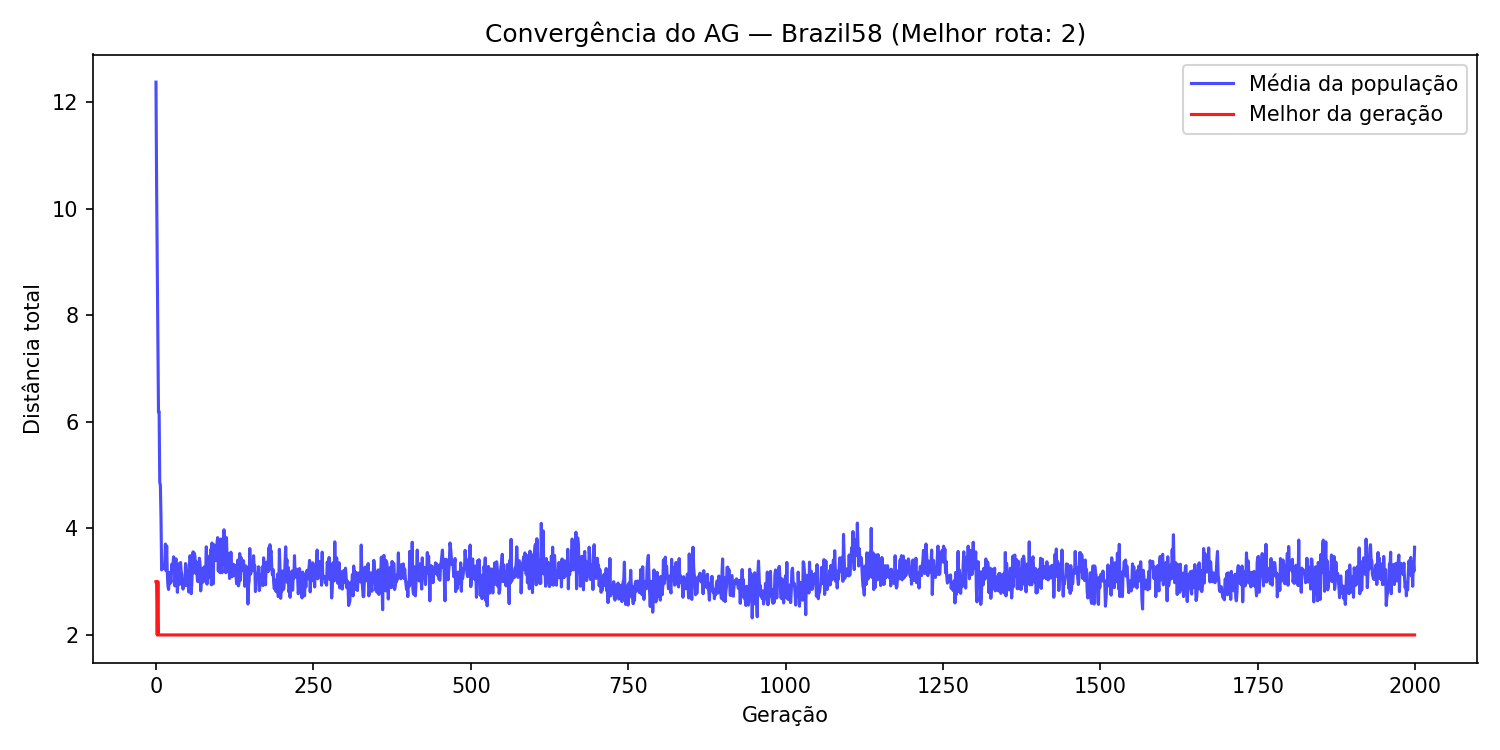
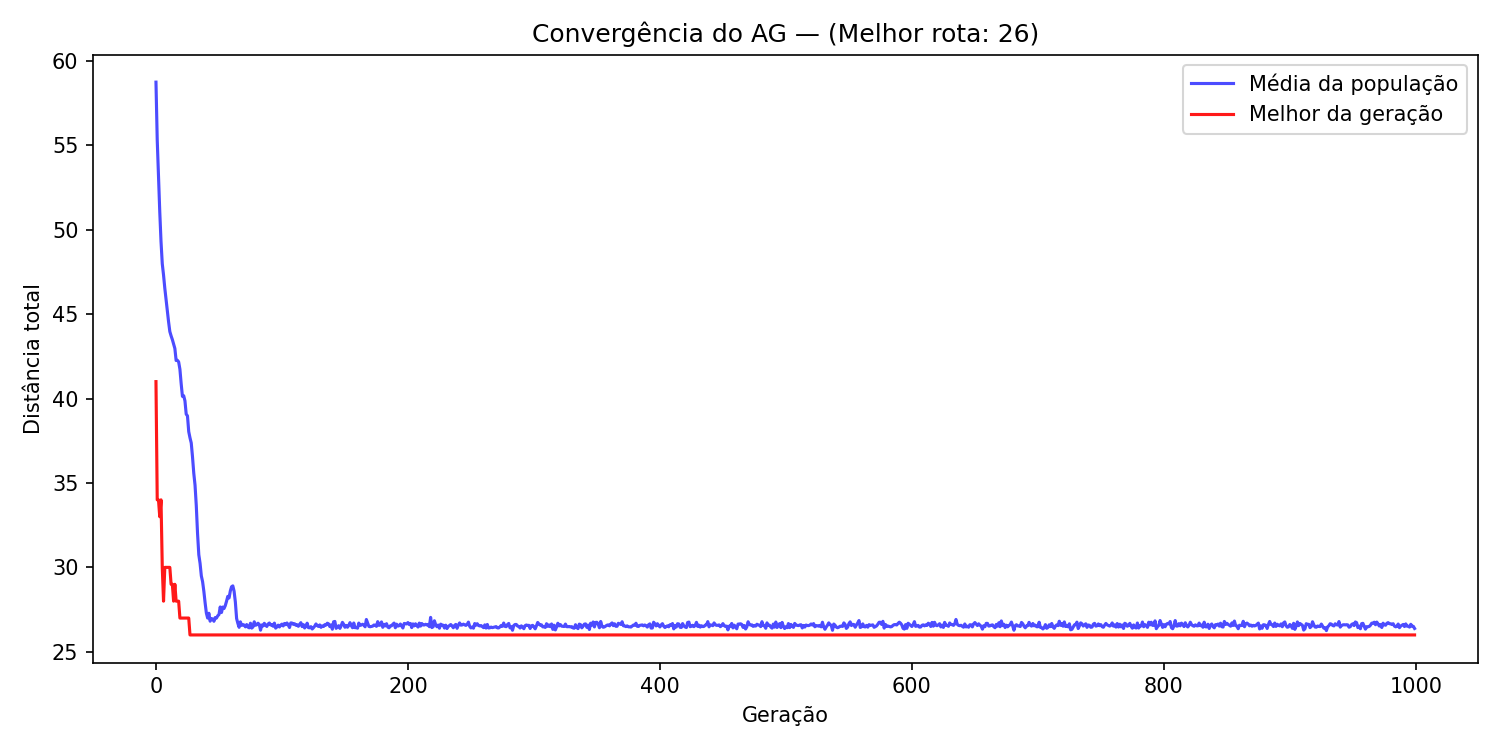
Adicionando a melhor rota

diff --git a/processo.py b/processo.py
@@ -1,5 +1,5 @@
 # -*- coding: utf-8 -*-
-# Adaptado para Brazil58 com matriz UPPER_ROW
+# Adaptado para Brazil13 com a matriz UPPER_ROW fornecida e impressão detalhada de rotas
 
 import random
 import time
@@ -9,35 +9,31 @@ import matplotlib.pyplot as plt
 from deap import base, creator, tools
 
 # =============================================================================
-# 1. CARREGAMENTO DA MATRIZ DE DISTÂNCIAS (UPPER_ROW - Brazil58)
+# 1. CARREGAMENTO DA MATRIZ DE DISTÂNCIAS (UPPER_ROW - Brazil13)
 # =============================================================================
 distancias = {}
 todos_valores = []
 
-# Lendo o arquivo e guardando absolutamente todos os números em uma lista única
-with open("brazil58.tsp", "r") as objArq:
+with open("brazil58.tsp", "r") as objArq:  # Mantendo o nome do arquivo que você usa
     for line in objArq:
         line = line.strip()
-        # Pula cabeçalhos se houver, ou linhas vazias
         if not line or "NAME" in line or "TYPE" in line or "COMMENT" in line or "DIMENSION" in line or "EDGE_WEIGHT" in line:
             continue
         if line == "EOF":
             break
         todos_valores.extend(line.split())
 
-# Definição do número de cidades para o Brazil58
-n = 58
+n = 13
 idx = 0
 
-# Montando a matriz espelhada a partir do formato UPPER_ROW
 for i in range(1, n + 1):
-    distancias[(i, i)] = 0  # Distância de uma cidade para ela mesma é zero
+    distancias[(i, i)] = 0
     for j in range(i + 1, n + 1):
         if idx < len(todos_valores):
             peso = int(todos_valores[idx])
             idx += 1
         else:
-            peso = 0  # Prevenção caso o arquivo venha incompleto ou menor
+            peso = 0
         distancias[(i, j)] = peso
         distancias[(j, i)] = peso
 
@@ -47,18 +43,12 @@ print(f"Sucesso: Matriz de distâncias para {n} cidades carregada corretamente!\
 # 2. FUNÇÕES AUXILIARES
 # =============================================================================
 def calcular_distancia_rota(rota):
-    """Distância total do ciclo (fecha na cidade de origem)."""
     total = sum(distancias[(rota[i], rota[i + 1])] for i in range(len(rota) - 1))
     total += distancias[(rota[-1], rota[0])]
     return total
 
 
 def canonizar_rota(rota):
-    """
-    Normaliza o ciclo para representação única:
-    1) Cidade de menor índice vai para a posição 0
-    2) Sentido fixo: segundo elemento sempre menor que o último
-    """
     idx_min = rota.index(min(rota))
     rota = rota[idx_min:] + rota[:idx_min]
     if len(rota) > 1 and rota[1] > rota[-1]:
@@ -67,7 +57,6 @@ def canonizar_rota(rota):
 
 
 def normalizar_para_origem(rota, origem):
-    """Rotaciona o ciclo canonizado para começar na cidade de origem."""
     rota_canon = canonizar_rota(rota)
     idx = rota_canon.index(origem)
     return rota_canon[idx:] + rota_canon[:idx]
@@ -76,20 +65,16 @@ def normalizar_para_origem(rota, origem):
 # =============================================================================
 # 3. CONFIGURAÇÃO DO DEAP
 # =============================================================================
-
-# Limpa registros antigos caso rode em ambiente interativo (como Jupyter)
 if hasattr(creator, "minTourLength"):
     del creator.minTourLength
 if hasattr(creator, "Individual"):
     del creator.Individual
 
-# Minimizar distância total (weight = -1.0)
 creator.create("minTourLength", base.Fitness, weights=(-1.0,))
 creator.create("Individual", list, fitness=creator.minTourLength)
 
 toolbox = base.Toolbox()
 
-# Cidades numeradas de 1 a 58
 cidades_lista = list(range(1, n + 1))
 toolbox.register("indices", random.sample, cidades_lista, n)
 toolbox.register("individual", tools.initIterate, creator.Individual, toolbox.indices)
@@ -97,35 +82,29 @@ toolbox.register("population", tools.initRepeat, list, toolbox.individual)
 
 
 def avaliar(individual):
-    """Função de avaliação: distância total do ciclo."""
     return (calcular_distancia_rota(individual),)
 
 
 def ox_crossover(ind1, ind2):
-    """Order Crossover (OX) implementado manualmente — compatível com DEAP 1.4."""
     size = len(ind1)
     a, b = sorted(random.sample(range(size), 2))
 
-    # Filho 1: segmento de ind1, resto na ordem de ind2
     filho1 = [None] * size
     filho1[a:b] = ind1[a:b]
     pos = b
-    for cidade in ind2[b:] + ind2[:b]:
-        if cidade not in filho1:
-            if pos >= size:
-                pos = 0
-            filho1[pos] = cidade
+    for item in ind2[b:] + ind2[:b]:
+        if item not in filho1:
+            if pos >= size: pos = 0
+            filho1[pos] = item
             pos += 1
 
-    # Filho 2: segmento de ind2, resto na ordem de ind1
     filho2 = [None] * size
     filho2[a:b] = ind2[a:b]
     pos = b
-    for cidade in ind1[b:] + ind1[:b]:
-        if cidade not in filho2:
-            if pos >= size:
-                pos = 0
-            filho2[pos] = cidade
+    for item in ind1[b:] + ind1[:b]:
+        if item not in filho2:
+            if pos >= size: pos = 0
+            filho2[pos] = item
             pos += 1
 
     ind1[:] = filho1
@@ -134,22 +113,22 @@ def ox_crossover(ind1, ind2):
 
 
 toolbox.register("evaluate", avaliar)
-toolbox.register("mate",    ox_crossover)                             # Crossover OX manual
-toolbox.register("mutate",  tools.mutShuffleIndexes, indpb=0.02)      # Mutação por shuffle
-toolbox.register("select",  tools.selTournament, tournsize=3)         # Torneio de tamanho 3
+toolbox.register("mate",    ox_crossover)
+toolbox.register("mutate",  tools.mutShuffleIndexes, indpb=0.02)
+toolbox.register("select",  tools.selTournament, tournsize=3)
 
 
 # =============================================================================
-# 4. PARÂMETROS OTIMIZADOS PARA 58 CIDADES
+# 4. PARÂMETROS PARA 13 CIDADES
 # =============================================================================
 SEED               = 42       
 NUM_CITIES         = n
-POP_SIZE           = 200       # População maior para expandir a diversidade genética
-CXPB               = 0.9      # Probabilidade de crossover
-MUTPB              = 0.2      # Probabilidade de mutação
-NGEN               = 2000      # Mais gerações para dar tempo de convergir no espaço 58!
-K_SELECTION        = 150       # Tamanho do pool de seleção ajustado à população
-NUM_EXECUCOES      = 5         # Quantidade de testes independentes
+POP_SIZE           = int(NUM_CITIES * 1.5)   # ~19 indivíduos
+CXPB               = 0.9      
+MUTPB              = 0.2      
+NGEN               = 1000     
+K_SELECTION        = 750      
+NUM_EXECUCOES      = 10       
 
 
 # =============================================================================
@@ -161,7 +140,6 @@ def executar_uma_vez(seed_offset=0):
 
     populacao = toolbox.population(n=POP_SIZE)
 
-    # Avalia população inicial
     fitnesses = list(map(toolbox.evaluate, populacao))
     for ind, fit in zip(populacao, fitnesses):
         ind.fitness.values = fit
@@ -170,31 +148,25 @@ def executar_uma_vez(seed_offset=0):
     historico_min   = []
 
     for gen in range(NGEN):
-
-        # Seleção
         offspring = toolbox.select(populacao, K_SELECTION)
         offspring = list(map(toolbox.clone, offspring))
 
-        # Crossover
         for child1, child2 in zip(offspring[::2], offspring[1::2]):
             if random.random() < CXPB:
                 toolbox.mate(child1, child2)
                 del child1.fitness.values
                 del child2.fitness.values
 
-        # Mutação
         for mutant in offspring:
             if random.random() < MUTPB:
                 toolbox.mutate(mutant)
                 del mutant.fitness.values
 
-        # Reavalia inválidos
         invalidos = [ind for ind in offspring if not ind.fitness.valid]
         fitnesses  = list(map(toolbox.evaluate, invalidos))
         for ind, fit in zip(invalidos, fitnesses):
             ind.fitness.values = fit
 
-        # Substitui população
         populacao[:] = offspring
 
         fits = [ind.fitness.values[0] for ind in populacao]
@@ -208,8 +180,8 @@ def executar_uma_vez(seed_offset=0):
 # =============================================================================
 # 6. MÚLTIPLAS EXECUÇÕES
 # =============================================================================
-CIDADE_ORIGEM = random.choice(cidades_lista)   # Sorteia uma das 58 cidades mapeadas
-print(f"Cidade de origem sorteada: {CIDADE_ORIGEM}\n")
+CIDADE_ORIGEM = random.choice(cidades_lista)
+print(f"Cidade de origem sorteada para o relatório: {CIDADE_ORIGEM}\n")
 print("=" * 55)
 
 melhor_global       = None
@@ -233,40 +205,35 @@ for execucao in range(NUM_EXECUCOES):
 fim = time.time()
 
 # =============================================================================
-# 7. RESULTADO FINAL
+# 7. RESULTADO FINAL (IMPRESSÃO DA MELHOR ROTA)
 # =============================================================================
-rota_normalizada = normalizar_para_origem(melhor_global, CIDADE_ORIGEM)
-rota_exibida     = rota_normalizada + [CIDADE_ORIGEM]
+# Reorganiza a melhor rota global para começar a partir da CIDADE_ORIGEM escolhida
+rota_ordenada = normalizar_para_origem(melhor_global, CIDADE_ORIGEM)
+# Adiciona a origem no final para fechar o ciclo de retorno do caixeiro viajante
+rota_completa = rota_ordenada + [CIDADE_ORIGEM]
 
-print("\n=== MELHOR ROTA ENCONTRADA ===")
-print(f"Origem sorteada  : Cidade {CIDADE_ORIGEM}")
-print(f"Rota completa    : {' -> '.join(map(str, rota_exibida))}")
-print(f"Distância total  : {melhor_distancia}")
-print(f"Fitness          : {1 / melhor_distancia:.8f}")
-print(f"Tempo de execução: {fim - inicio:.4f} segundos")
-print()
-print("Parâmetros:")
-print(f"  Semente (seed)         : {SEED} + offset por execução")
-print(f"  Tamanho da população   : {POP_SIZE}")
-print(f"  Probabilidade crossover: {CXPB}  (tipo: OX - Order Crossover)")
-print(f"  Probabilidade mutação  : {MUTPB}  (tipo: Shuffle Indexes, indpb=0.02)")
-print(f"  Seleção                : Torneio (tournsize=3, k={K_SELECTION})")
-print(f"  Número de gerações     : {NGEN}")
-print(f"  Execuções independentes: {NUM_EXECUCOES}")
+print("\n" + "=" * 55)
+print("=== MELHOR ROTA ENCONTRADA PELO ALGORITMO ===")
+print("=" * 55)
+print(f"Ponto de Partida : Cidade {CIDADE_ORIGEM}")
+print(f"Distância Mínima : {melhor_distancia} unidades")
+print(f"Fitness da Rota  : {1 / melhor_distancia:.8f}")
+print(f"Tempo de Cálculo : {fim - inicio:.4f} segundos")
+print("-" * 55)
+print("Fluxo do Percurso:")
+print(f" 🚩 {' ➡ '.join(map(str, rota_completa))} 🏁")
+print("=" * 55)
 
 # =============================================================================
 # 8. GRÁFICO DE CONVERGÊNCIA
 # =============================================================================
 fig, ax = plt.subplots(figsize=(10, 5))
-ax.plot(range(len(melhor_historico_media)), melhor_historico_media,
-        "b-", label="Média da população", alpha=0.7)
-ax.plot(range(len(melhor_historico_min)),  melhor_historico_min,
-        "r-", label="Melhor da geração",  alpha=0.9)
+ax.plot(range(len(melhor_historico_media)), melhor_historico_media, "b-", label="Média da população", alpha=0.7)
+ax.plot(range(len(melhor_historico_min)),  melhor_historico_min, "r-", label="Melhor da geração", alpha=0.9)
 ax.set_xlabel("Geração")
 ax.set_ylabel("Distância total")
-ax.set_title(f"Convergência do AG — Brazil58 (Melhor rota: {melhor_distancia})")
+ax.set_title(f"Convergência do AG — (Melhor rota: {melhor_distancia})")
 ax.legend()
 plt.tight_layout()
 plt.savefig("convergencia.png", dpi=150)
 plt.show()
-print("\nGráfico salvo em: convergencia.png")
